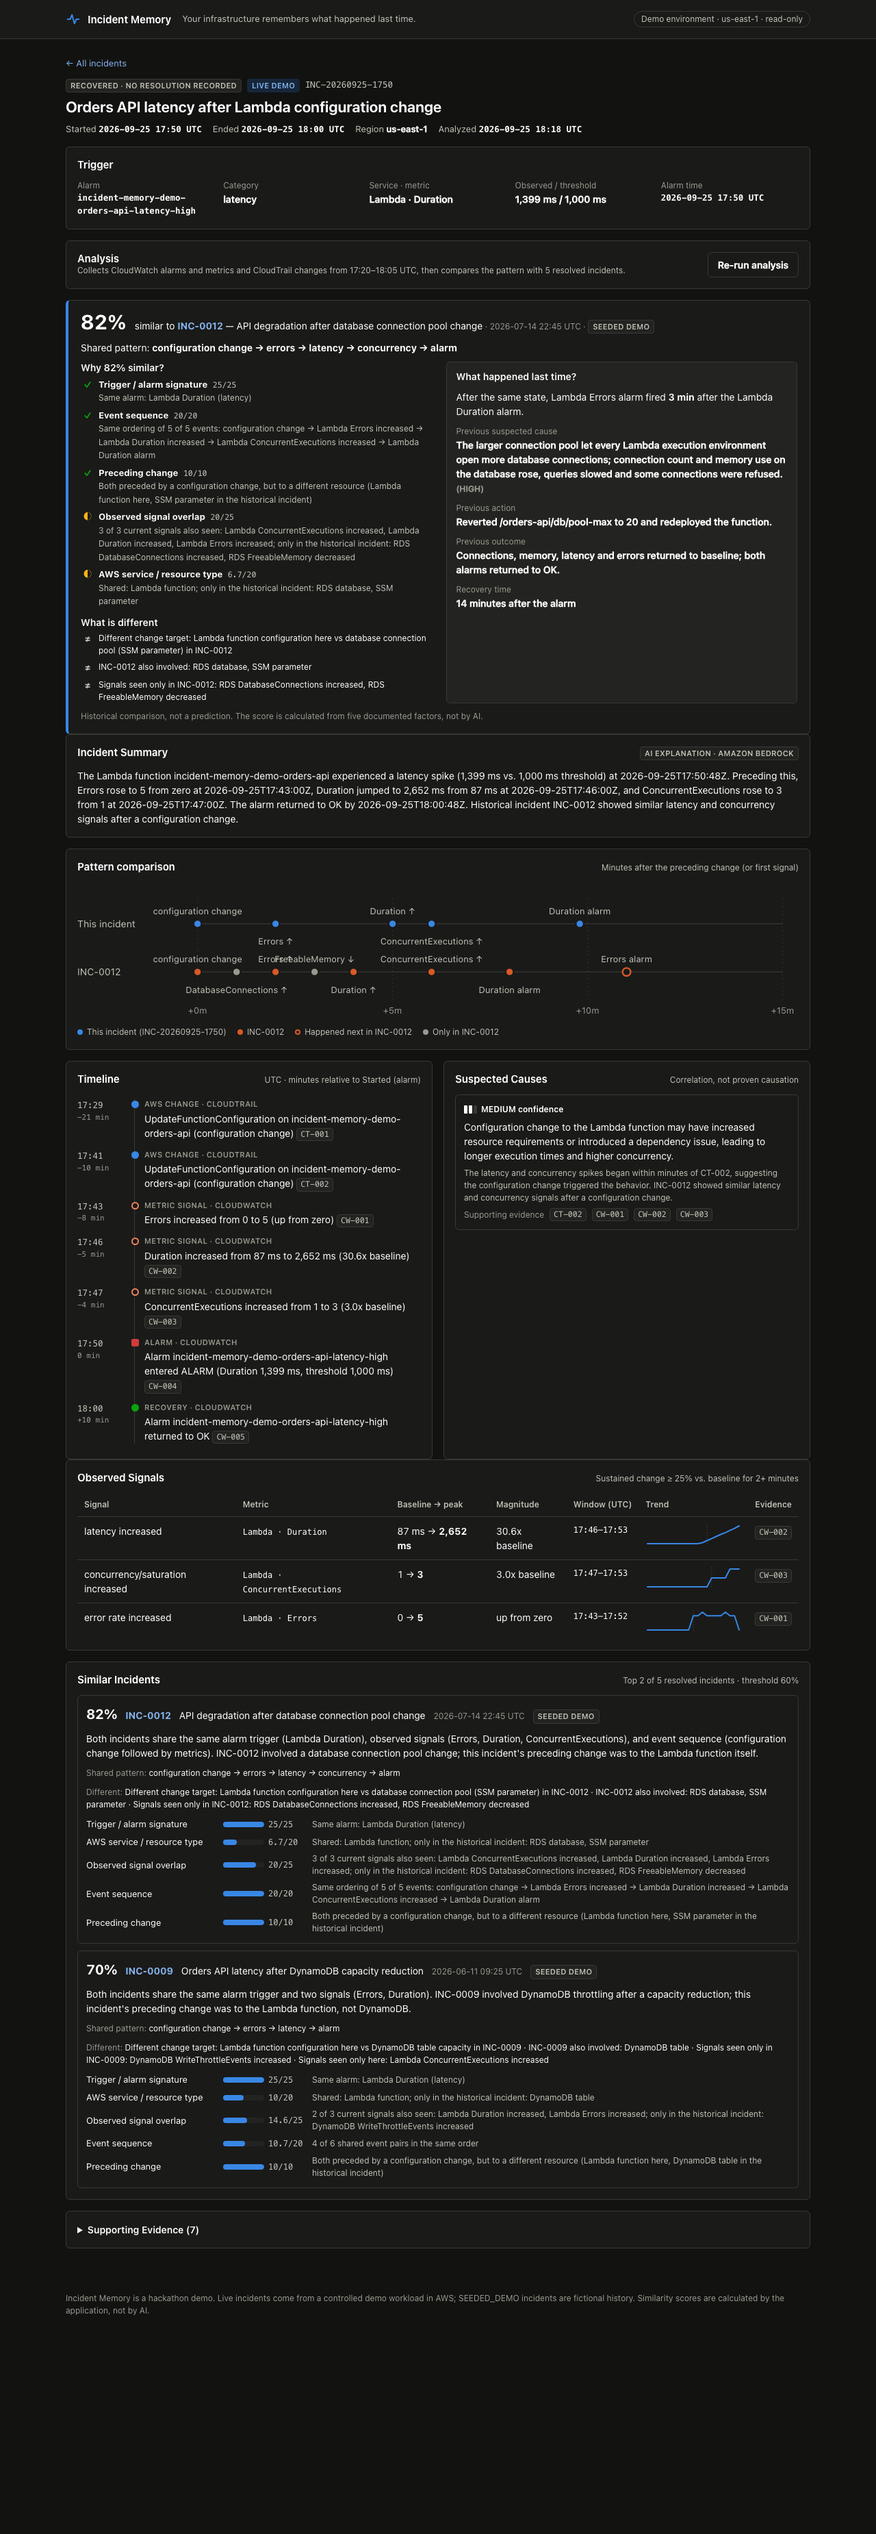
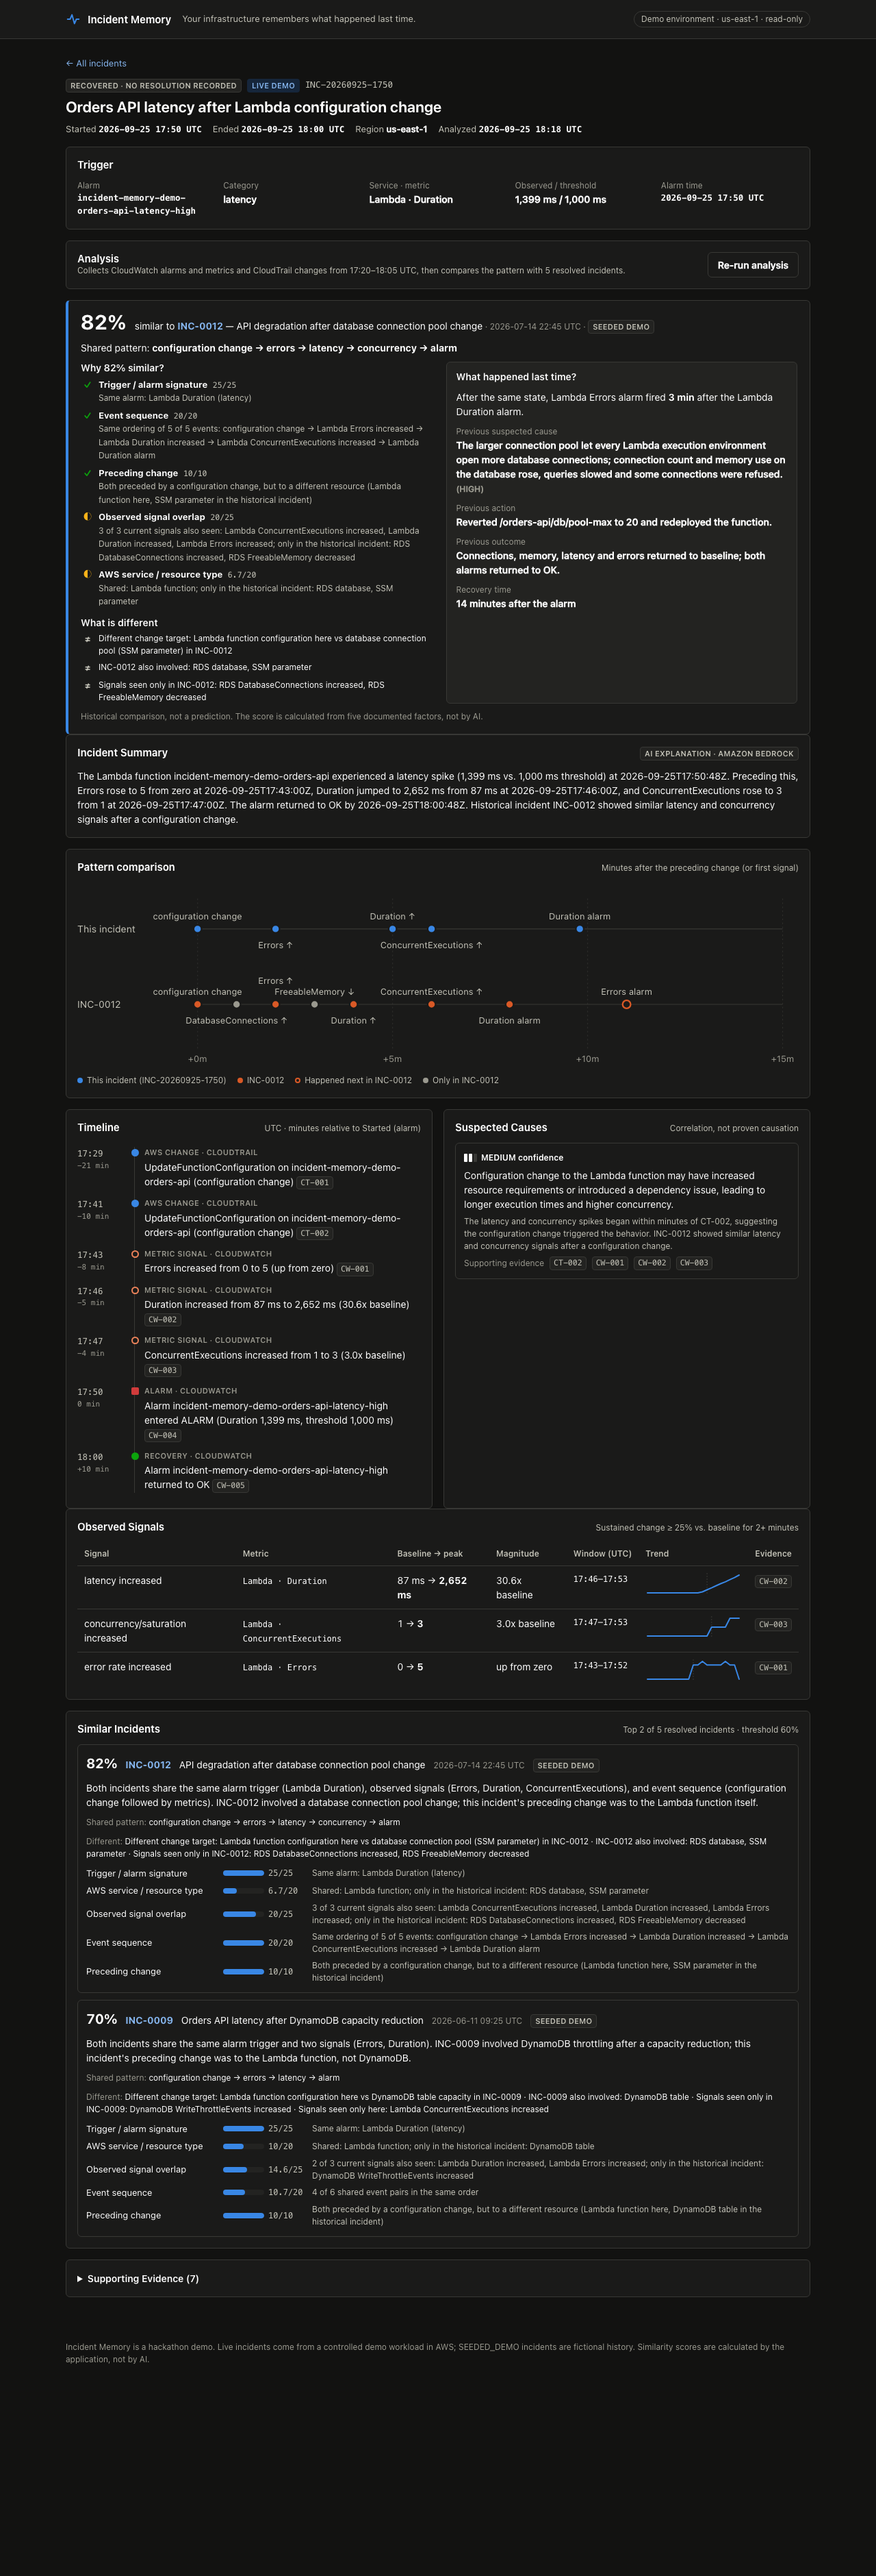
Avoid overlapping labels in the pattern comparison chart
Four label rows per lane (two above, two below); screenshots updated.

diff --git a/frontend/app.js b/frontend/app.js
@@ -471,20 +471,22 @@ function compareChart(cur, top) {
   const all = [...curEvents, ...histEvents].map((e) => e.x);
   if (!all.length) return `<p class="muted">Not enough timed events to compare.</p>`;
   const maxX = Math.max(5, Math.ceil(Math.max(...all) / 5) * 5);
-  const W = 900, H = 170, left = 150, right = 20;
+  const W = 900, H = 230, left = 150, right = 20;
   const sx = (x) => left + (x / maxX) * (W - left - right);
   const lane = (y, events, color, label) => {
     const sorted = [...events].sort((a, b) => a.x - b.x);
-    const rightEdge = { top: -Infinity, bottom: -Infinity };  // label collision avoidance per row
+    // label collision avoidance: up to four label rows per lane (two above, two below)
+    const tiers = [["top", -12], ["bottom", 24], ["top2", -26], ["bottom2", 38]];
+    const rightEdge = Object.fromEntries(tiers.map(([k]) => [k, -Infinity]));
     return `<text x="0" y="${y + 4}" font-size="12" fill="var(--text-2)">${esc(label)}</text>
       <line x1="${left}" x2="${W - right}" y1="${y}" y2="${y}" stroke="var(--border)"/>
       ${sorted.map((e) => {
         const x = sx(e.x);
         const name = shortToken(e.t);
-        const half = name.length * 3.3;  // approx. half label width at 11px
-        const side = x - half > rightEdge.top + 6 ? "top" : x - half > rightEdge.bottom + 6 ? "bottom" : "top";
+        const half = name.length * 3.4;  // approx. half label width at 11px
+        const [side, dy] = tiers.find(([k]) => x - half > rightEdge[k] + 6) || tiers[0];
         rightEdge[side] = x + half;
-        const ty = side === "top" ? y - 12 : y + 26;
+        const ty = y + dy;
         const note = e.next ? " · happened next last time" : e.onlyHist ? ` · only in ${top.incident_id}` : "";
         return `<g class="cmp-pt" data-tip="${esc(`${name} · +${e.x} min${note}`)}">
           <circle cx="${x}" cy="${y}" r="10" fill="transparent"/>
@@ -498,8 +500,8 @@ function compareChart(cur, top) {
   return `<svg viewBox="0 0 ${W} ${H}" width="100%" style="min-width:640px" role="img" aria-label="Event sequence comparison">
     ${ticks.map((t) => `<line x1="${sx(t)}" x2="${sx(t)}" y1="20" y2="${H - 22}" stroke="var(--border)" stroke-dasharray="2 3" opacity=".6"/>
       <text x="${sx(t)}" y="${H - 6}" font-size="11" text-anchor="middle" fill="var(--text-3)">+${t}m</text>`).join("")}
-    ${lane(52, curEvents, "var(--series-1)", "This incident")}
-    ${lane(112, histEvents, "var(--series-2)", top.incident_id)}
+    ${lane(58, curEvents, "var(--series-1)", "This incident")}
+    ${lane(152, histEvents, "var(--series-2)", top.incident_id)}
   </svg>`;
 }
 
